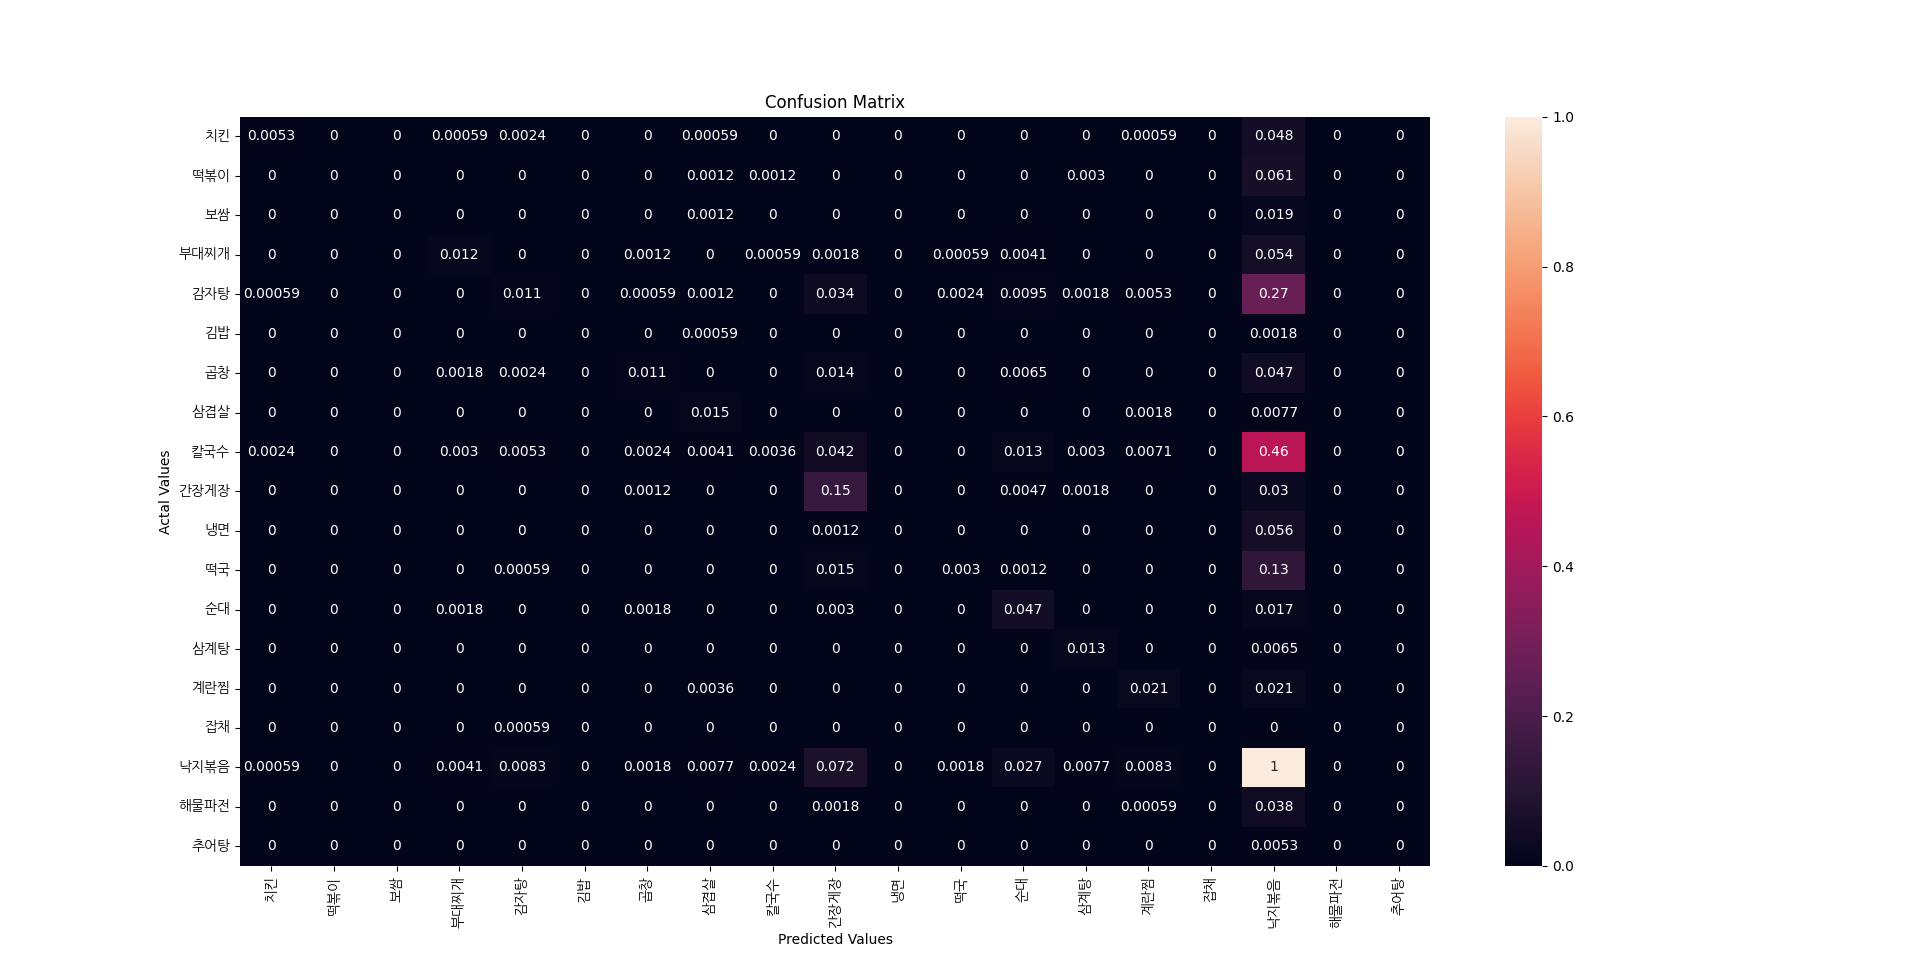
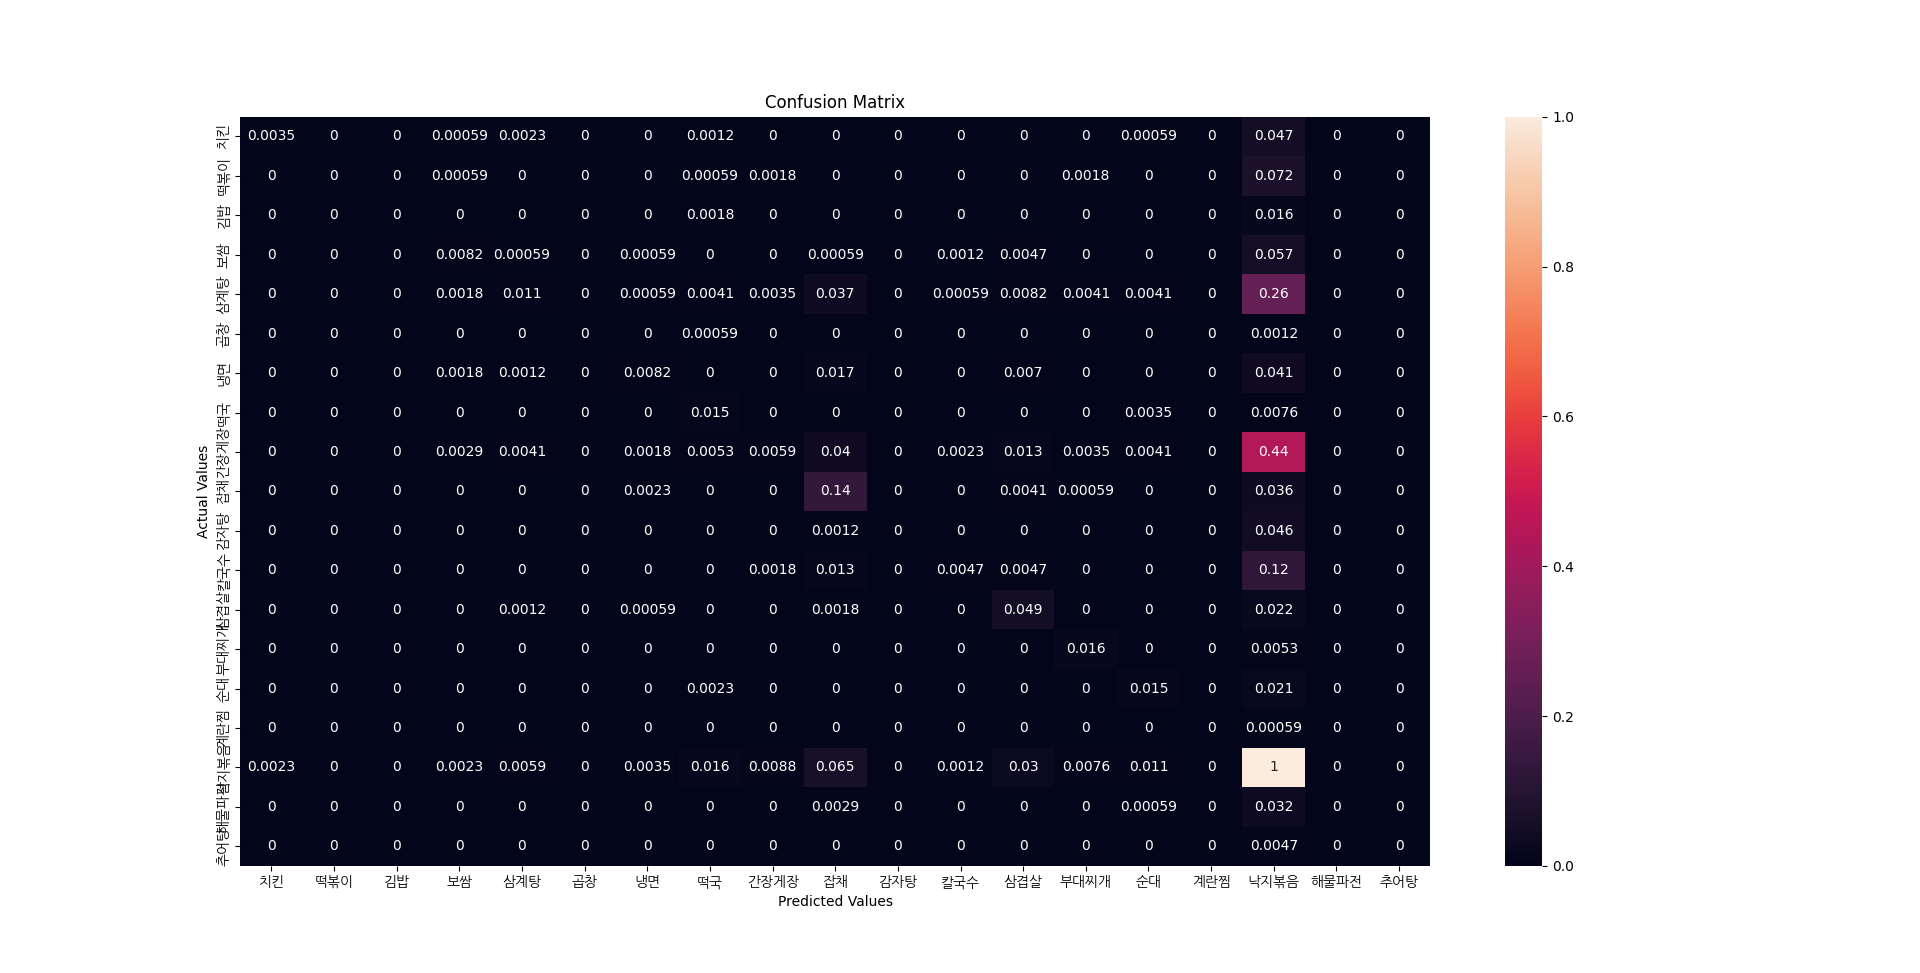
results updated

diff --git a/weather_menu_model.py b/weather_menu_model.py
@@ -59,20 +59,20 @@ font_manager.FontManager().addfont("./NanumGothic.ttf")
 fontp = font_manager.FontProperties(fname="./NanumGothic.ttf")
 
 cm_df = pd.DataFrame(cm, columns=class_names, index=class_names)
-plt.figure(figsize=(5,4))
+plt.figure(figsize=(16, 10))
 sns.heatmap(cm_df,annot=True)
 plt.title('Confusion Matrix')
-plt.ylabel('Actal Values')
+plt.ylabel('Actual Values')
 plt.xlabel('Predicted Values')
 plt.xticks(fontproperties=fontp)
 plt.yticks(fontproperties=fontp)
 plt.show()
 
 cm_df_norm = cm_df.applymap(lambda x : x/cm_df.max().max())
-plt.figure(figsize=(5,4))
+plt.figure(figsize=(16, 10))
 sns.heatmap(cm_df_norm,annot=True)
 plt.title('Confusion Matrix')
-plt.ylabel('Actal Values')
+plt.ylabel('Actual Values')
 plt.xlabel('Predicted Values')
 plt.xticks(fontproperties=fontp)
 plt.yticks(fontproperties=fontp)
@@ -112,4 +112,4 @@ def plot_multiclass_roc(clf, X_test, y_test, n_classes, figsize=(17, 6)):
     sns.despine()
     plt.show()
 
-plot_multiclass_roc(clf_boosting, X_test, y_test, n_classes=16, figsize=(16, 10))
+plot_multiclass_roc(clf_boosting, X_test, y_test, n_classes=len(class_names), figsize=(16, 10))
